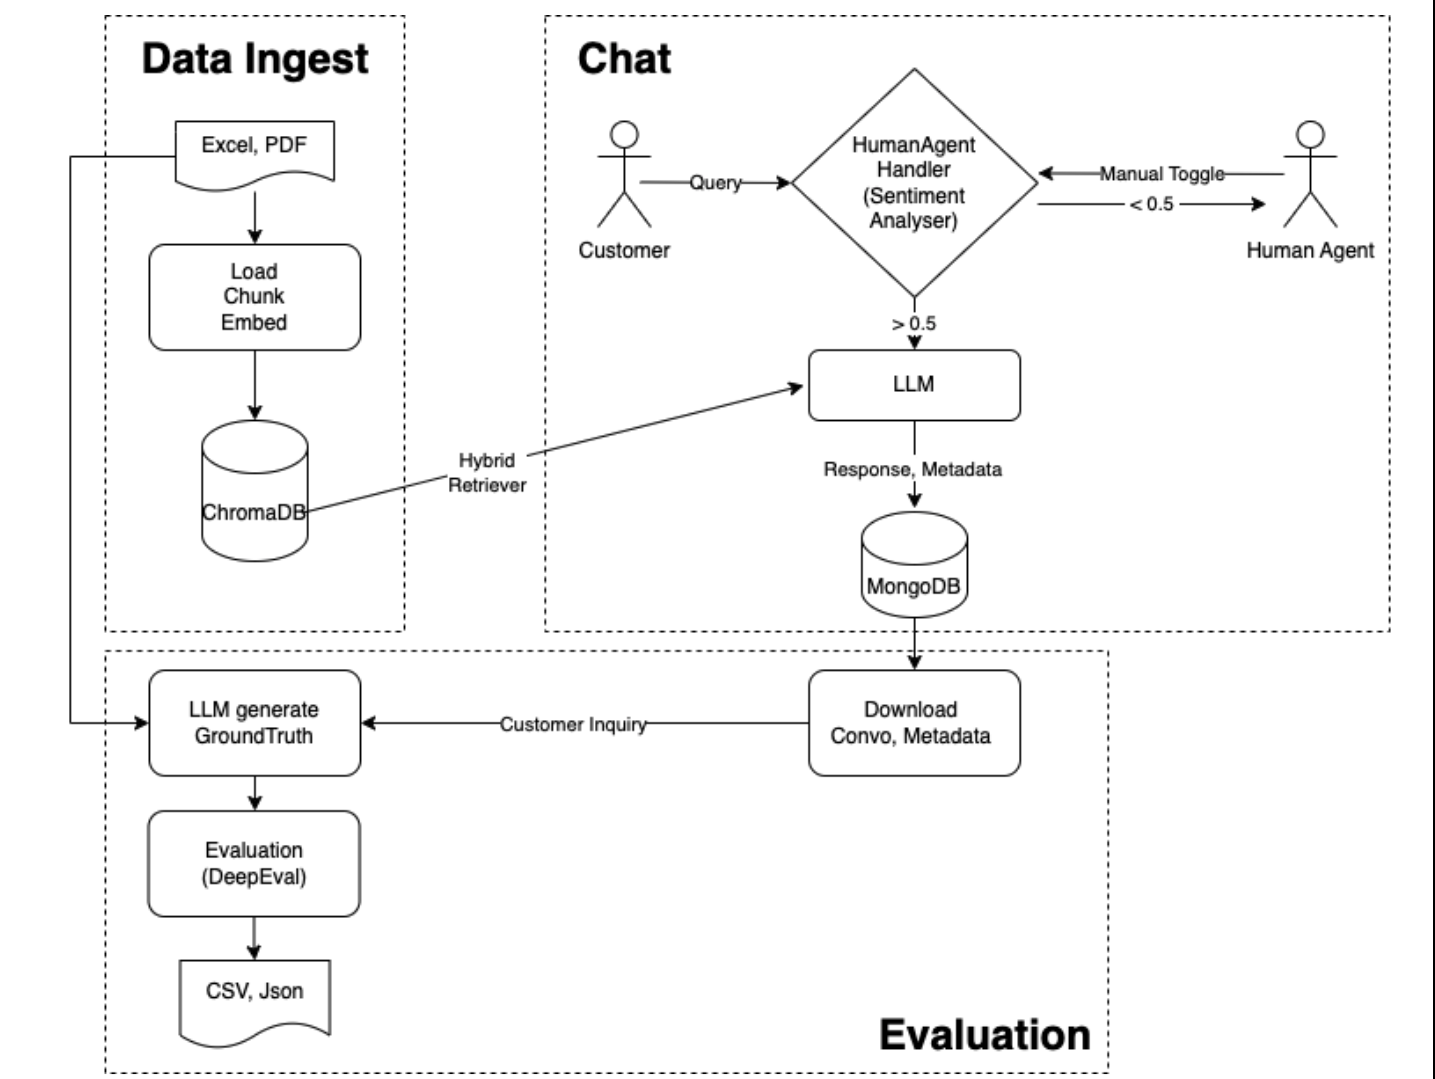
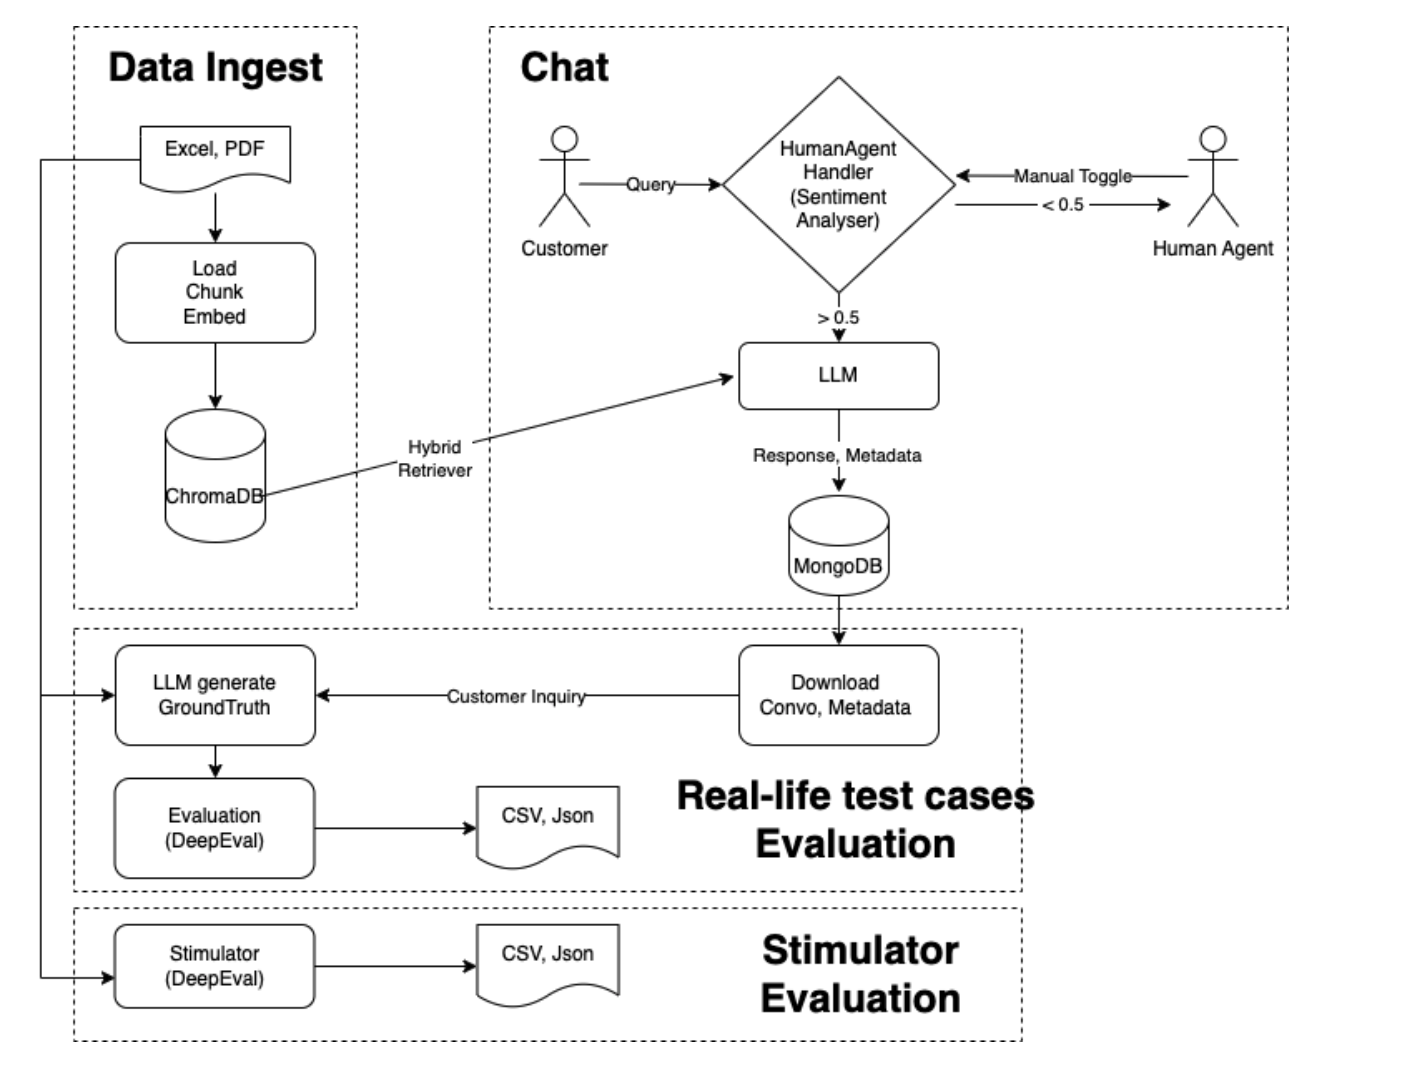
included llm generate truth in eval

diff --git a/src/backend/evaluation/deepeval_utils.py b/src/backend/evaluation/deepeval_utils.py
@@ -2,16 +2,30 @@
 
 import os
 import json, csv
+import pandas as pd
 import logging
+from omegaconf import DictConfig
 from typing import Dict, List, Any, Tuple, Optional
 from datetime import datetime
+from pydantic import BaseModel
 from pydantic_ai import Agent
 
 from deepeval.dataset import EvaluationDataset
 from deepeval.test_case import ConversationalTestCase, LLMTestCase
-
+from src.backend.dataloaders.local_doc_loader import (
+    load_local_doc,
+    LoadedUnstructuredDocument,
+    LoadedStructuredDocument
+)
 
 logger = logging.getLogger(__name__)
+
+class LLMGroundTruth(BaseModel):
+    customer_inquiry: str
+    llm_gt: str
+
+class AllLLMGroundTruth(BaseModel):
+    all_llmgt: List[LLMGroundTruth]
 
 
 class EvalUtils:
@@ -60,7 +74,8 @@ class EvalUtils:
             with open(output_file, 'w', newline='', encoding='utf-8') as csvf:
                 fieldnames = [
                     'session_id', 'customer_inquiry',
-                    'bot_response', 'context', 'expected_output'
+                    'bot_response', 'retrieval_context', 'context',
+                    'expected_output'
                 ]
                 writer = csv.DictWriter(csvf, fieldnames=fieldnames)
                 writer.writeheader()
@@ -78,18 +93,19 @@ class EvalUtils:
                             next_msg = messages[i + 1]
                             if (current_msg['role'] == 'user' and
                                     next_msg['role'] == 'bot'):
-                                context = ""
+                                retrieval_context = ""
                                 if "metadata" in next_msg:
                                     metadata = next_msg["metadata"]
                                     logger.info(f"Metadata: {metadata}")
                                     if metadata:
-                                        context = metadata.get("top_search_result", "")
-                                        logger.info(f"Context: {context}")
+                                        retrieval_context = metadata.get("top_search_result", "")
+                                        logger.info(f"Retrieval Context: {retrieval_context}")
                                 row = {
                                     'session_id': session_id,
                                     'customer_inquiry': current_msg.get("content", ""),
                                     'bot_response': next_msg.get("content", ""),
-                                    'context': context,
+                                    'retrieval_context': retrieval_context,
+                                    'context': "",
                                     'expected_output': ""
                                 }
                                 writer.writerow(row)
@@ -105,6 +121,51 @@ class EvalUtils:
             logger.error(f"Error exporting conversations to CSV: {e}")
             raise
     
+    async def fill_gt_llm(
+        self,
+        cfg: DictConfig,
+        csv_path: str,
+        system_prompt: str,
+        user_prompt: str
+    ) -> None:
+        documents = load_local_doc(cfg)
+        rag_context = ""
+        for doc in documents:
+            if isinstance(doc, LoadedUnstructuredDocument):
+                rag_context += f"\n\n{doc.content}"
+            elif isinstance(doc, LoadedStructuredDocument):
+                df_str = doc.content.to_string(index=False)
+                rag_context += f"\n\n{df_str}"
+
+        df = pd.read_csv(csv_path)
+        if "customer_inquiry" not in df.columns:
+            raise ValueError("CSV does not contain 'customer_inquiry' column")
+        if "expected_output" not in df.columns:
+            df["expected_output"] = ""
+        inquiries = df["customer_inquiry"].tolist()
+
+        agent = Agent(
+            "openai:gpt-4o-mini",
+            result_type=AllLLMGroundTruth,
+            system_prompt=system_prompt
+        )
+        formatted_inquiries = "\n".join([f"Inquiry {i+1}: {inq}" 
+                                        for i, inq in enumerate(inquiries)])
+        result = await agent.run(user_prompt.format(
+            customer_inquiry=formatted_inquiries,
+            context=rag_context,
+            )
+        )
+        all_llmgt = result.data.all_llmgt
+        print(f"LLM Ground Truth: {all_llmgt}")
+        for i, item in enumerate(all_llmgt):
+            if i < len(df):
+                df.at[i, "expected_output"] = item.llm_gt
+
+        df.to_csv(csv_path, index=False)
+        logger.info(f"Updated CSV with LLM ground truth: {csv_path}")
+        return None
+    
     async def load_dataset_from_csv(
         self, csv_file_path: str, chatbot_role: str
     ) -> EvaluationDataset:
@@ -116,6 +177,7 @@ class EvalUtils:
             context_col_name="context",
             context_col_delimiter=";",
             expected_output_col_name="expected_output",
+            retrieval_context_col_name="retrieval_context",
             retrieval_context_col_delimiter=";"
         )
         print(f"Dataset: {dataset}")

diff --git a/src/backend/main/eval/test_deepeval.py b/src/backend/main/eval/test_deepeval.py
@@ -1,5 +1,5 @@
 """To run:
-deepeval test run src/backend/main/test_deepeval.py
+deepeval test run src/backend/main/eval/test_deepeval.py -v
 Parallelization (e.g. n=4): -n 4
 Use Cache with: -c
 Verbose mode: -v
@@ -11,6 +11,7 @@ from hydra import initialize, compose
 import asyncio
 import pytest
 
+from deepeval.test_case import LLMTestCaseParams
 # conversational metrics
 from deepeval.metrics import (
     ConversationalGEval,
@@ -28,16 +29,14 @@ from deepeval.metrics import (
 #     ContextualRecall
 # )
 
-from src.backend.utils.settings import SETTINGS
 from src.backend.utils.logging import setup_logging
-from src.backend.database.mongodb_client import MongoDBClient
 from src.backend.evaluation.deepeval_utils import EvalUtils
 
 
 logger = logging.getLogger(__name__)
 logger.info("Setting up logging configuration.")
 setup_logging()
-initialize(version_base=None, config_path="../../../config")
+initialize(version_base=None, config_path="../../../../config")
 cfg = compose(config_name="eval")
 
 
@@ -64,11 +63,18 @@ def init_metrics(cfg: DictConfig):
     metrics_config = cfg.metrics
     model = metrics_config.model
 
-    # if metrics_config.convo_geval_accuracy.enabled:
-    #     metrics_list.append(ConversationalGEval(
-    #         threshold=metrics_config.convo_geval_accuracy.threshold,
-    #         model=model,
-    #     ))
+    if metrics_config.convo_geval_accuracy.enabled:
+        metrics_list.append(ConversationalGEval(
+            name="accuracy",
+            criteria=metrics_config.convo_geval_accuracy.criteria,
+            evaluation_params=[
+                LLMTestCaseParams.INPUT,
+                LLMTestCaseParams.ACTUAL_OUTPUT,
+                LLMTestCaseParams.EXPECTED_OUTPUT
+            ],
+            threshold=metrics_config.convo_geval_accuracy.threshold,
+            model=model,
+        ))
     if metrics_config.role_adherence.enabled:
         metrics_list.append(RoleAdherenceMetric(
             threshold=metrics_config.role_adherence.threshold,
@@ -116,8 +122,7 @@ def test_deepeval(test_case):
             eval_utils.save_results_deepeval(
                 session_id,
                 metrics_results,
-                cfg.deepeval_base_dir,
-                test_case
+                cfg.deepeval_base_dir
             )
         )
         logger.info(f"Saved evaluation results to {json_filepath}")

diff --git a/src/backend/main/eval/deepeval_main.py b/src/backend/main/eval/deepeval_main.py
@@ -1,5 +1,5 @@
 """To run:
-python -m src.backend.main.eval_deepeval_main
+python -m src.backend.main.eval.deepeval_main
 """
 import logging
 import os
@@ -42,12 +42,18 @@ async def convert_msg_to_csv(cfg: DictConfig) -> None:
         output_file=convo_csv_file_path,
         session_chat_limit=cfg.session_chat_limit
     )
+    await utils.fill_gt_llm(
+        cfg=cfg,
+        csv_path=convo_csv_file_path,
+        system_prompt=cfg.llm_gt_prompts.system_prompt,
+        user_prompt=cfg.llm_gt_prompts.user_prompt
+    )
     return None
 
 
 @hydra.main(
     version_base=None,
-    config_path="../../../config",
+    config_path="../../../../config",
     config_name="eval")
 def main(cfg: DictConfig) -> None:
     asyncio.run(convert_msg_to_csv(cfg))

diff --git a/src/backend/main/eval/ragas_main.py b/src/backend/main/eval/ragas_main.py
@@ -1,5 +1,5 @@
 """To run:
-python -m src.backend.main.eval_ragas_main
+python -m src.backend.main.eval.ragas_main
 """
 import logging
 import hydra
@@ -46,7 +46,7 @@ async def run_single_session_eval(
 
 @hydra.main(
     version_base=None,
-    config_path="../../../config",
+    config_path="../../../../config",
     config_name="eval")
 def main(cfg: DictConfig) -> None:
     async def run_evaluation():
